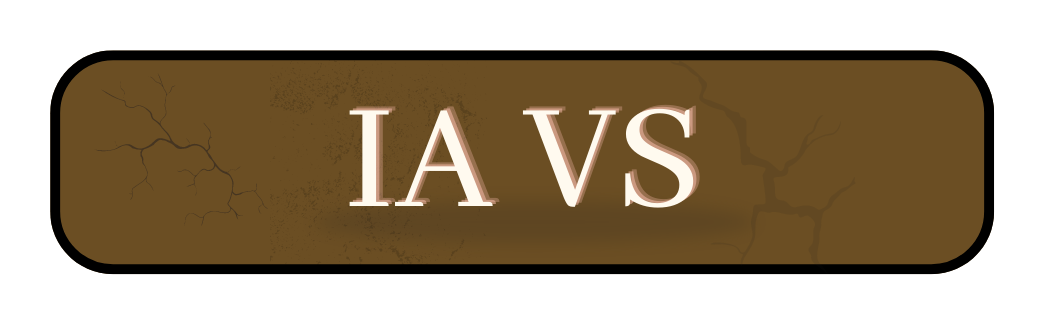
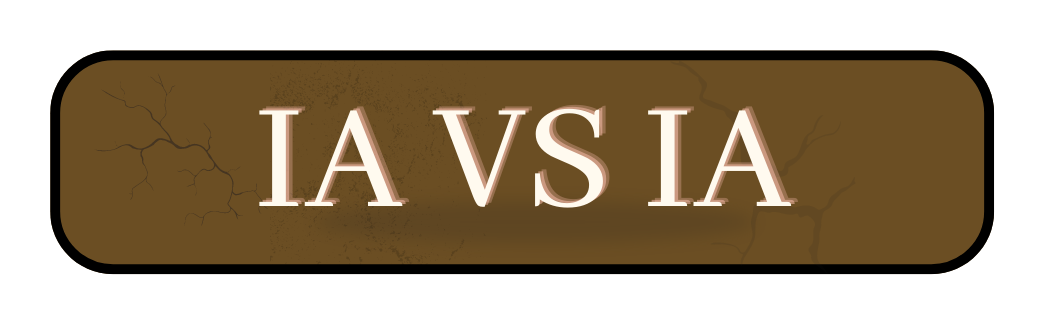
Menu IA vs Joueur

Changed region(s): [[0.245, 0.3077, 0.7656, 0.6462]]

diff --git a/src/Vue/MenuIAGraphique.java b/src/Vue/MenuIAGraphique.java
@@ -3,12 +3,13 @@ package Vue;
 import javax.swing.*;
 import java.awt.*;
 import java.util.HashMap;
+import java.util.Random;
 
 import Global.Configuration;
 
-public class MenuSelectionIAGraphique extends JComponent{
+public class MenuIAGraphique extends JComponent{
     InterfaceGraphique ig;
-    MenuButton [] leftSelect = new MenuButton[4];
+    MenuButton [] leftSelect = new MenuButton[3];
     MenuButton [] rightSelect = new MenuButton[4];
     int ratioXBouton = 949, ratioYBouton = 302;
     int ratioXFond = 4608, ratioYFond = 3072;
@@ -17,45 +18,41 @@ public class MenuSelectionIAGraphique extends JComponent{
 
     MenuButton retourB, launchB;
 
+    String type = "facile";
+    int joueur = 0;
 
-    public MenuSelectionIAGraphique(InterfaceGraphique ig, HashMap<String, Image> imagesCache){
+
+    public MenuIAGraphique(InterfaceGraphique ig, HashMap<String, Image> imagesCache){
         this.ig = ig;
 
-        Runnable facile1 = new Runnable() {
+        Runnable joueur1 = new Runnable() {
             public void run() {
-                ig.setIA("facile",0);
+                joueur = 0;
                 unlockAllLeft();
                 leftSelect[0].Lock();
             }
         };
 
-        Runnable moyen1 = new Runnable() {
+        Runnable joueur2 = new Runnable() {
             public void run() {
-                ig.setIA("moyen",0);
+                joueur = 1;
                 unlockAllLeft();
                 leftSelect[1].Lock();
             }
         };
 
-        Runnable difficile1 = new Runnable() {
+        Runnable aleatoire = new Runnable() {
             public void run() {
-                ig.setIA("difficile",0);
+                Random r = new Random();
+                joueur = r.nextInt(2);
                 unlockAllLeft();
                 leftSelect[2].Lock();
             }
         };
 
-        Runnable extreme1 = new Runnable() {
-            public void run() {
-                ig.setIA("extreme",0);
-                unlockAllLeft();
-                leftSelect[3].Lock();
-            }
-        };
-
         Runnable facile2 = new Runnable() {
             public void run() {
-                ig.setIA("facile",1);
+                type = "facile";
                 unlockAllRight();
                 rightSelect[0].Lock();
             }
@@ -63,7 +60,7 @@ public class MenuSelectionIAGraphique extends JComponent{
 
         Runnable moyen2 = new Runnable() {
             public void run() {
-                ig.setIA("moyen",1);
+                type = "moyen";
                 unlockAllRight();
                 rightSelect[1].Lock();
             }
@@ -71,7 +68,7 @@ public class MenuSelectionIAGraphique extends JComponent{
 
         Runnable difficile2 = new Runnable() {
             public void run() {
-                ig.setIA("difficile",1);
+                type = "difficile";
                 unlockAllRight();
                 rightSelect[2].Lock();
             }
@@ -79,7 +76,7 @@ public class MenuSelectionIAGraphique extends JComponent{
 
         Runnable extreme2 = new Runnable() {
             public void run() {
-                ig.setIA("extreme",1);
+                type = "extreme";
                 unlockAllRight();
                 rightSelect[3].Lock();
             }
@@ -87,21 +84,25 @@ public class MenuSelectionIAGraphique extends JComponent{
 
         Runnable retour = new Runnable() {
             public void run() {
-                ig.backIAcIAToMenuJeu();
+                ig.backIAToMenuJeu();
             }
         };
 
         Runnable launch = new Runnable() {
             public void run() {
-                ig.launchIAvsIAGame();
+                ig.resetJoueur(joueur);
+                if(joueur==1)
+                    ig.setIA(type,0);
+                else
+                    ig.setIA(type,1);
+                ig.launchIAGame();
             }
         };
 
 
-        leftSelect[0] = new MenuButton(facile1,"IA_facile", false, imagesCache);
-        leftSelect[1] = new MenuButton(moyen1, "IA_moyen", false, imagesCache);
-        leftSelect[2] = new MenuButton(difficile1,"IA_difficile", false, imagesCache);
-        leftSelect[3] = new MenuButton(extreme1,"IA_extreme", false, imagesCache);
+        leftSelect[0] = new MenuButton(joueur1,"Joueur1", false, imagesCache);
+        leftSelect[1] = new MenuButton(joueur2, "Joueur2", false, imagesCache);
+        leftSelect[2] = new MenuButton(aleatoire,"Aleatoire", false, imagesCache);
         retourB = new MenuButton(retour,"Fleche_retour_menu", false, imagesCache);
 
         rightSelect[0] = new MenuButton(facile2,"IA_facile", false, imagesCache);
@@ -196,7 +197,7 @@ public class MenuSelectionIAGraphique extends JComponent{
         
         
         x = width/3 - largeurBouton/2;
-        y = 5*height/8;
+        y = 5*height/8 + hauteurBouton/2;
 
         for(int i = 0; i < leftSelect.length; i++){
             leftSelect[i].setBounds(x, y + (i-2) * hauteurBouton, largeurBouton, hauteurBouton);
@@ -207,6 +208,7 @@ public class MenuSelectionIAGraphique extends JComponent{
         */
 
         x = 2*width/3 - largeurBouton/2;
+        y = 5*height/8;
 
         for(int i = 0; i < rightSelect.length; i++){
             rightSelect[i].setBounds(x, y + (i-2) * hauteurBouton, largeurBouton, hauteurBouton);

diff --git a/src/Vue/InterfaceGraphique.java b/src/Vue/InterfaceGraphique.java
@@ -8,7 +8,6 @@ import javax.swing.*;
 import java.awt.*;
 import java.io.File;
 import java.util.HashMap;
-import java.util.Random;
 import java.awt.event.*;
 
 import Controleur.ControleurMediateur;
@@ -30,8 +29,8 @@ public class InterfaceGraphique implements Runnable, InterfaceUtilisateur {
     ContinuumGraphique continuumGraphique;
     OnlineMenu onlineMenu;
     MenuTuto menuTuto;
-    MenuSelectionJoueurGraphique menuSelectionJoueurGraphique;
     MenuSelectionIAGraphique menuSelectionIAGraphique;
+    MenuIAGraphique menuIAGraphique;
 
     Jeu jeu;
     Clip clip, swap_clip, sceptre_clip;
@@ -126,12 +125,12 @@ public class InterfaceGraphique implements Runnable, InterfaceUtilisateur {
         menuTuto = new MenuTuto(this, imagesCache);
     }
 
-    void creerChoixJoueur(String type){
-        menuSelectionJoueurGraphique = new MenuSelectionJoueurGraphique(this, type, imagesCache);
+    void creerChoixIA(){
+        menuSelectionIAGraphique = new MenuSelectionIAGraphique(this, imagesCache);
     }
 
-    void creerChoixIA(String type){
-        menuSelectionIAGraphique = new MenuSelectionIAGraphique(this, type, imagesCache);
+    void creerMenuIA(){
+        menuIAGraphique = new MenuIAGraphique(this, imagesCache);
     }
 
     /*
@@ -212,28 +211,35 @@ public class InterfaceGraphique implements Runnable, InterfaceUtilisateur {
         refresh();
     }
 
-    public void switchToGameLocal(){
-        creerChoixJoueur("local");
-        fenetre.remove(menuJeu);
-        fenetre.add(menuSelectionJoueurGraphique);
-        refresh();
-    }
-
-    public void switchToGameIA(){
+    public void switchToGameIAvsIA(){
         ctrl = new ControleurMediateurLocal();
-        creerChoixIA("ia");
+        creerChoixIA();
         fenetre.remove(menuJeu);
         fenetre.add(menuSelectionIAGraphique);
         refresh();
     }
 
-    public void backLocalToMenuJeu(){
-        fenetre.remove(menuSelectionJoueurGraphique);
+    public void switchToGameIA(){
+        ctrl = new ControleurMediateurLocal();
+        creerMenuIA();
+        fenetre.remove(menuJeu);
+        fenetre.add(menuIAGraphique);
+        refresh();
+    }
+
+    // public void backLocalToMenuJeu(){
+    //     fenetre.remove(menuSelectionJoueurGraphique);
+    //     fenetre.add(menuJeu);
+    //     refresh();
+    // }
+
+    public void backIAToMenuJeu(){
+        fenetre.remove(menuIAGraphique);
         fenetre.add(menuJeu);
         refresh();
     }
 
-    public void backIAToMenuJeu(){
+    public void backIAcIAToMenuJeu(){
         fenetre.remove(menuSelectionIAGraphique);
         fenetre.add(menuJeu);
         refresh();
@@ -255,33 +261,19 @@ public class InterfaceGraphique implements Runnable, InterfaceUtilisateur {
         refresh();
     }
 
-    public void setJoueur1(String type){
-        joueurDebut = Jeu.JOUEUR_1;
-        launchGame(type);
-    }
-
-    public void setJoueur2(String type){
-        joueurDebut = Jeu.JOUEUR_2;
-        launchGame(type);
-    }
-
-    public void setJoueurRandom(String type){
-        Random rand = new Random();
-        joueurDebut = rand.nextBoolean();
-        launchGame(type);
-    }
-
-    private void launchGame(String type){
-        Jeu.setInitJoueurCommence(joueurDebut);
+    public void launchGameJcJ(){
+        // Jeu.setInitJoueurCommence(joueurDebut);
         ctrl = new ControleurMediateurLocal();
         ctrl.ajouteInterfaceUtilisateur(this);
         creerContinuum();
-        fenetre.remove(menuSelectionJoueurGraphique);
+        // fenetre.remove(menuSelectionJoueurGraphique);
+        fenetre.remove(menuJeu);
         fenetre.add(continuumGraphique);
-        if(type == "ia"){
-            continuumGraphique.ctrl.changeJoueur(1, 1);
-        }
         refresh();
+    }
+
+    public void resetJoueur(int j){
+        ctrl.changeJoueur(j, 0);
     }
 
     public void setIA(String type, int ia){
@@ -303,6 +295,14 @@ public class InterfaceGraphique implements Runnable, InterfaceUtilisateur {
                 Configuration.setTypeHeuristique(2);
                 ctrl.changeJoueur(ia, 1);
         }
+    }
+
+    public void launchIAGame(){
+        ctrl.ajouteInterfaceUtilisateur(this);
+        creerContinuum();
+        fenetre.remove(menuIAGraphique);
+        fenetre.add(continuumGraphique);
+        refresh();
     }
 
     public void launchIAvsIAGame(){

diff --git a/src/Vue/MenuJeuGraphique.java b/src/Vue/MenuJeuGraphique.java
@@ -1,6 +1,7 @@
 package Vue;
 
 import javax.swing.*;
+
 import java.awt.*;
 import java.util.HashMap;
 
@@ -8,7 +9,7 @@ import Global.Configuration;
 
 public class MenuJeuGraphique extends JComponent{
     InterfaceGraphique ig;
-    MenuButton [] bg = new MenuButton[3];
+    MenuButton [] bg = new MenuButton[4];
     int ratioXBouton = 949, ratioYBouton = 302;
     int ratioXFond = 4608, ratioYFond = 3072;
     int ratioXTitle = 480, ratioYTitle = 179;
@@ -22,13 +23,19 @@ public class MenuJeuGraphique extends JComponent{
 
         Runnable local = new Runnable() {
             public void run() {
-                ig.switchToGameLocal();
+                ig.launchGameJcJ();
             }
         };
 
         Runnable ia = new Runnable() {
             public void run() {
                 ig.switchToGameIA();
+            }
+        };
+
+        Runnable iacia = new Runnable() {
+            public void run() {
+                ig.switchToGameIAvsIA();
             }
         };
 
@@ -47,7 +54,8 @@ public class MenuJeuGraphique extends JComponent{
 
         bg[0] = new MenuButton(local,"VS_joueur", false, imagesCache);
         bg[1] = new MenuButton(ia, "VS_IA", false, imagesCache);
-        bg[2] = new MenuButton(online,"VS_online", false, imagesCache);
+        bg[2] = new MenuButton(iacia, "IA_VS_IA", false, imagesCache);
+        bg[3] = new MenuButton(online,"VS_online", false, imagesCache);
         retourB = new MenuButton(retour,"Fleche_retour_menu", false, imagesCache);
 
         
@@ -126,7 +134,7 @@ public class MenuJeuGraphique extends JComponent{
             bg[i].setBounds(x, y + (i-2) * hauteurBouton, largeurBouton, hauteurBouton);
         }
 
-        retourB.setBounds(x, y + (3 * hauteurBouton / 2), largeurBouton, hauteurBouton);
+        retourB.setBounds(x, y + (5 * hauteurBouton / 2), largeurBouton, hauteurBouton);
     }
 
 
